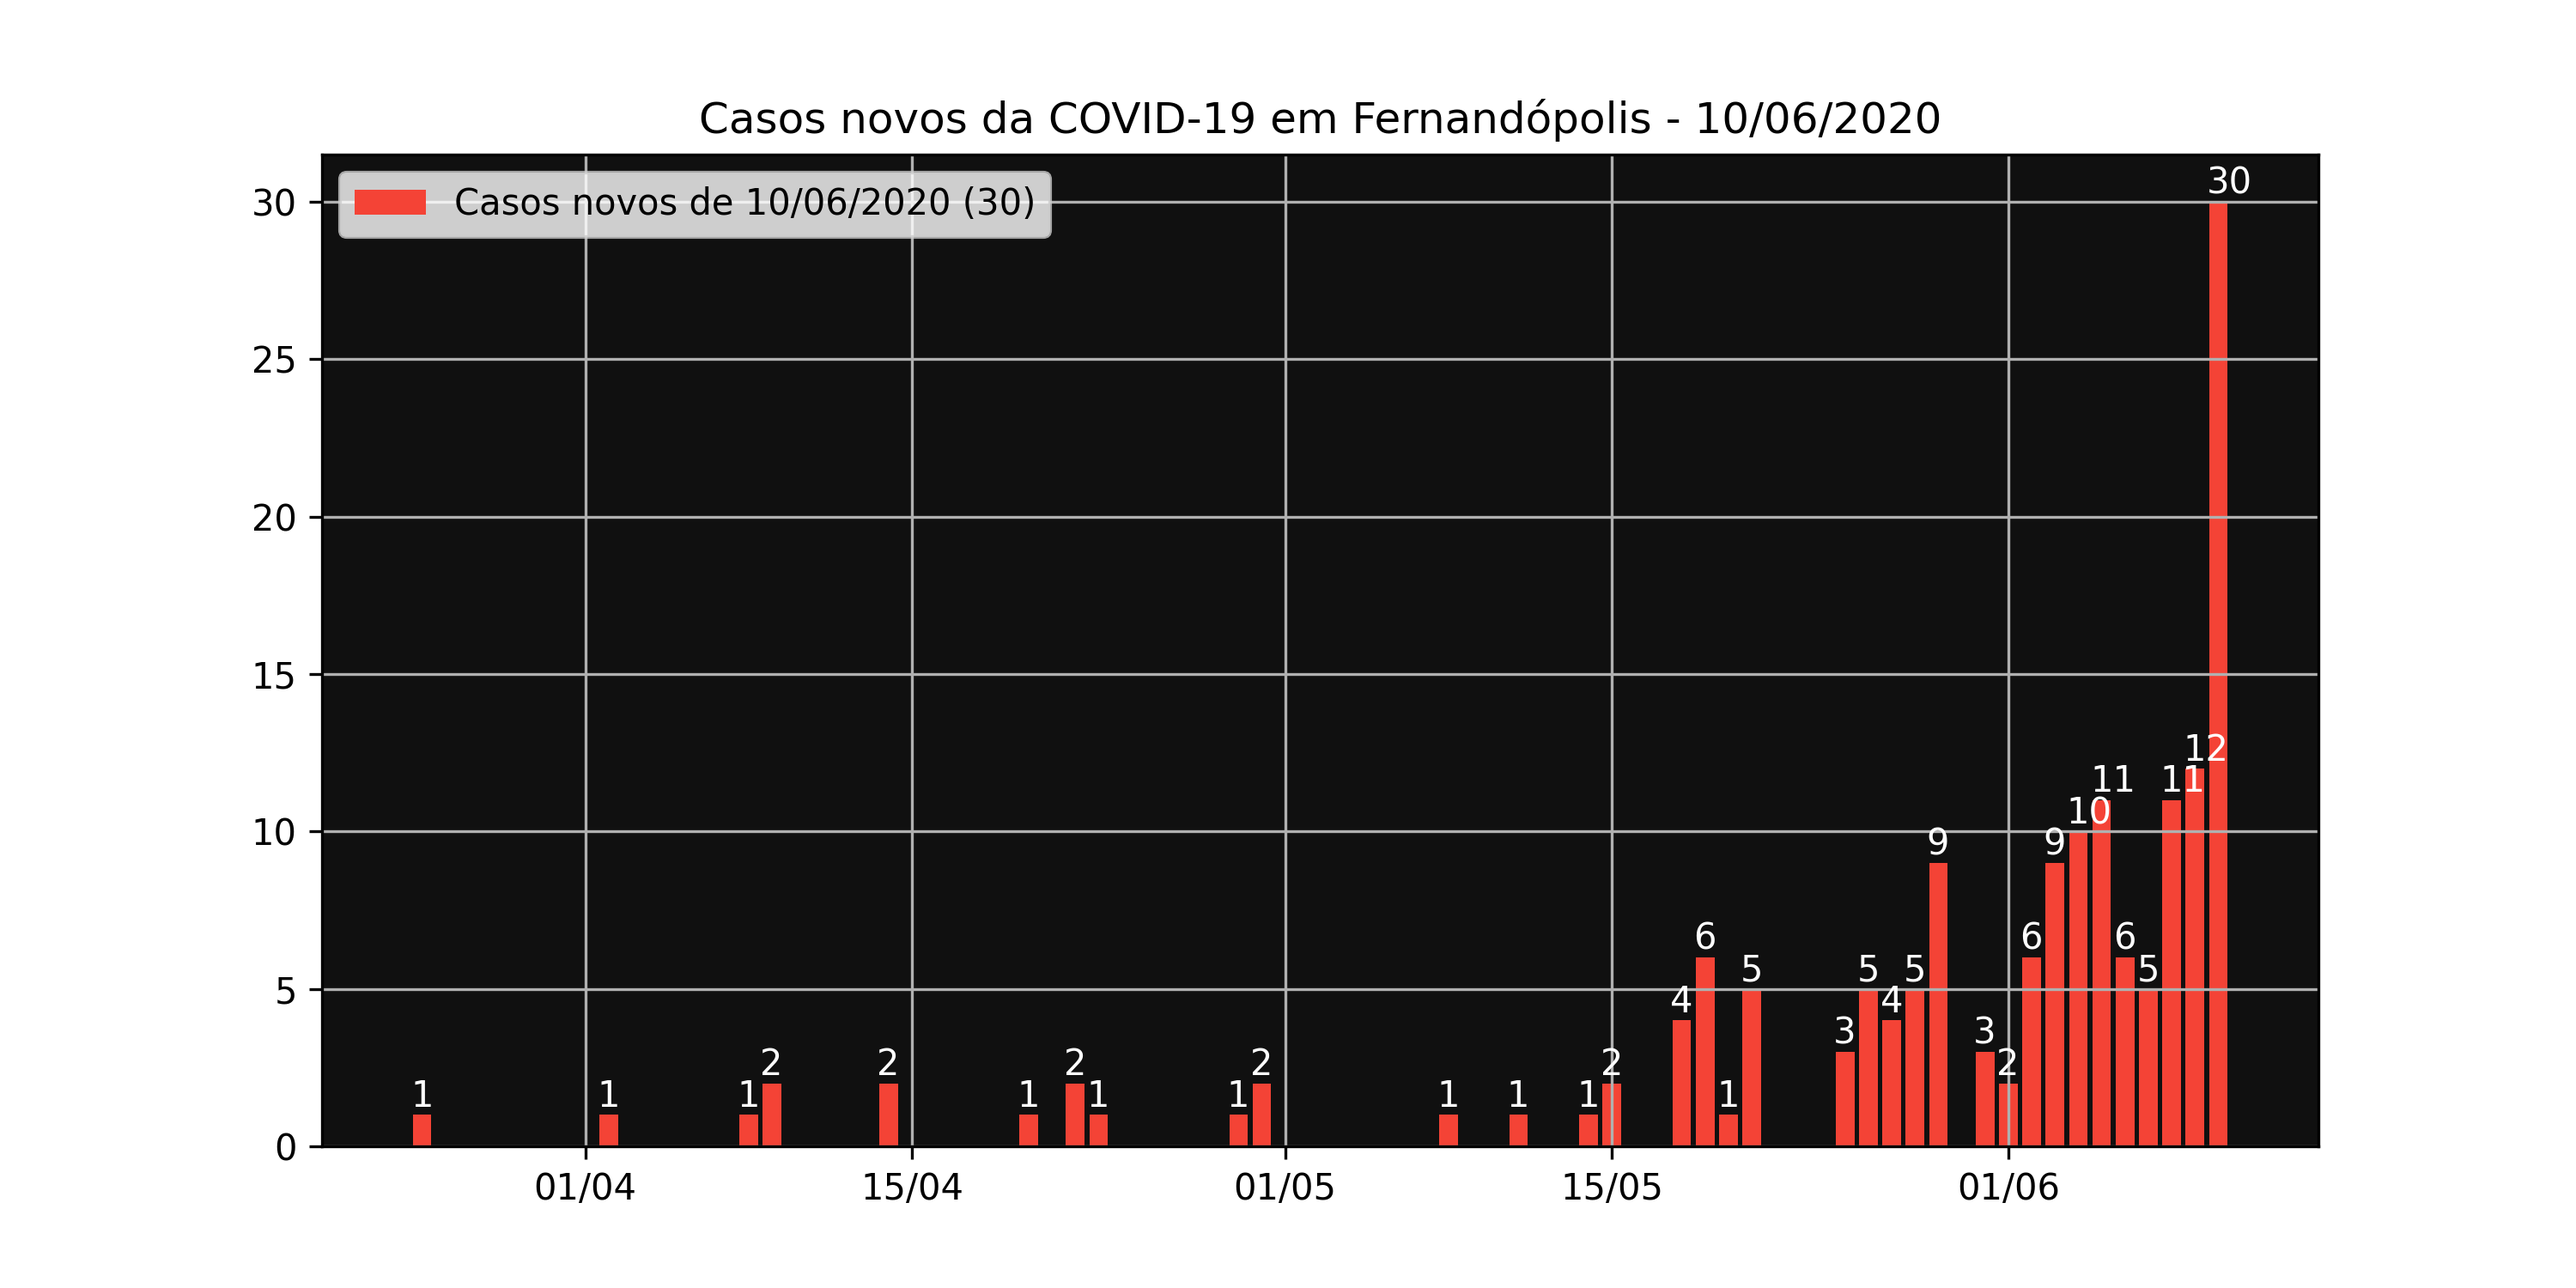
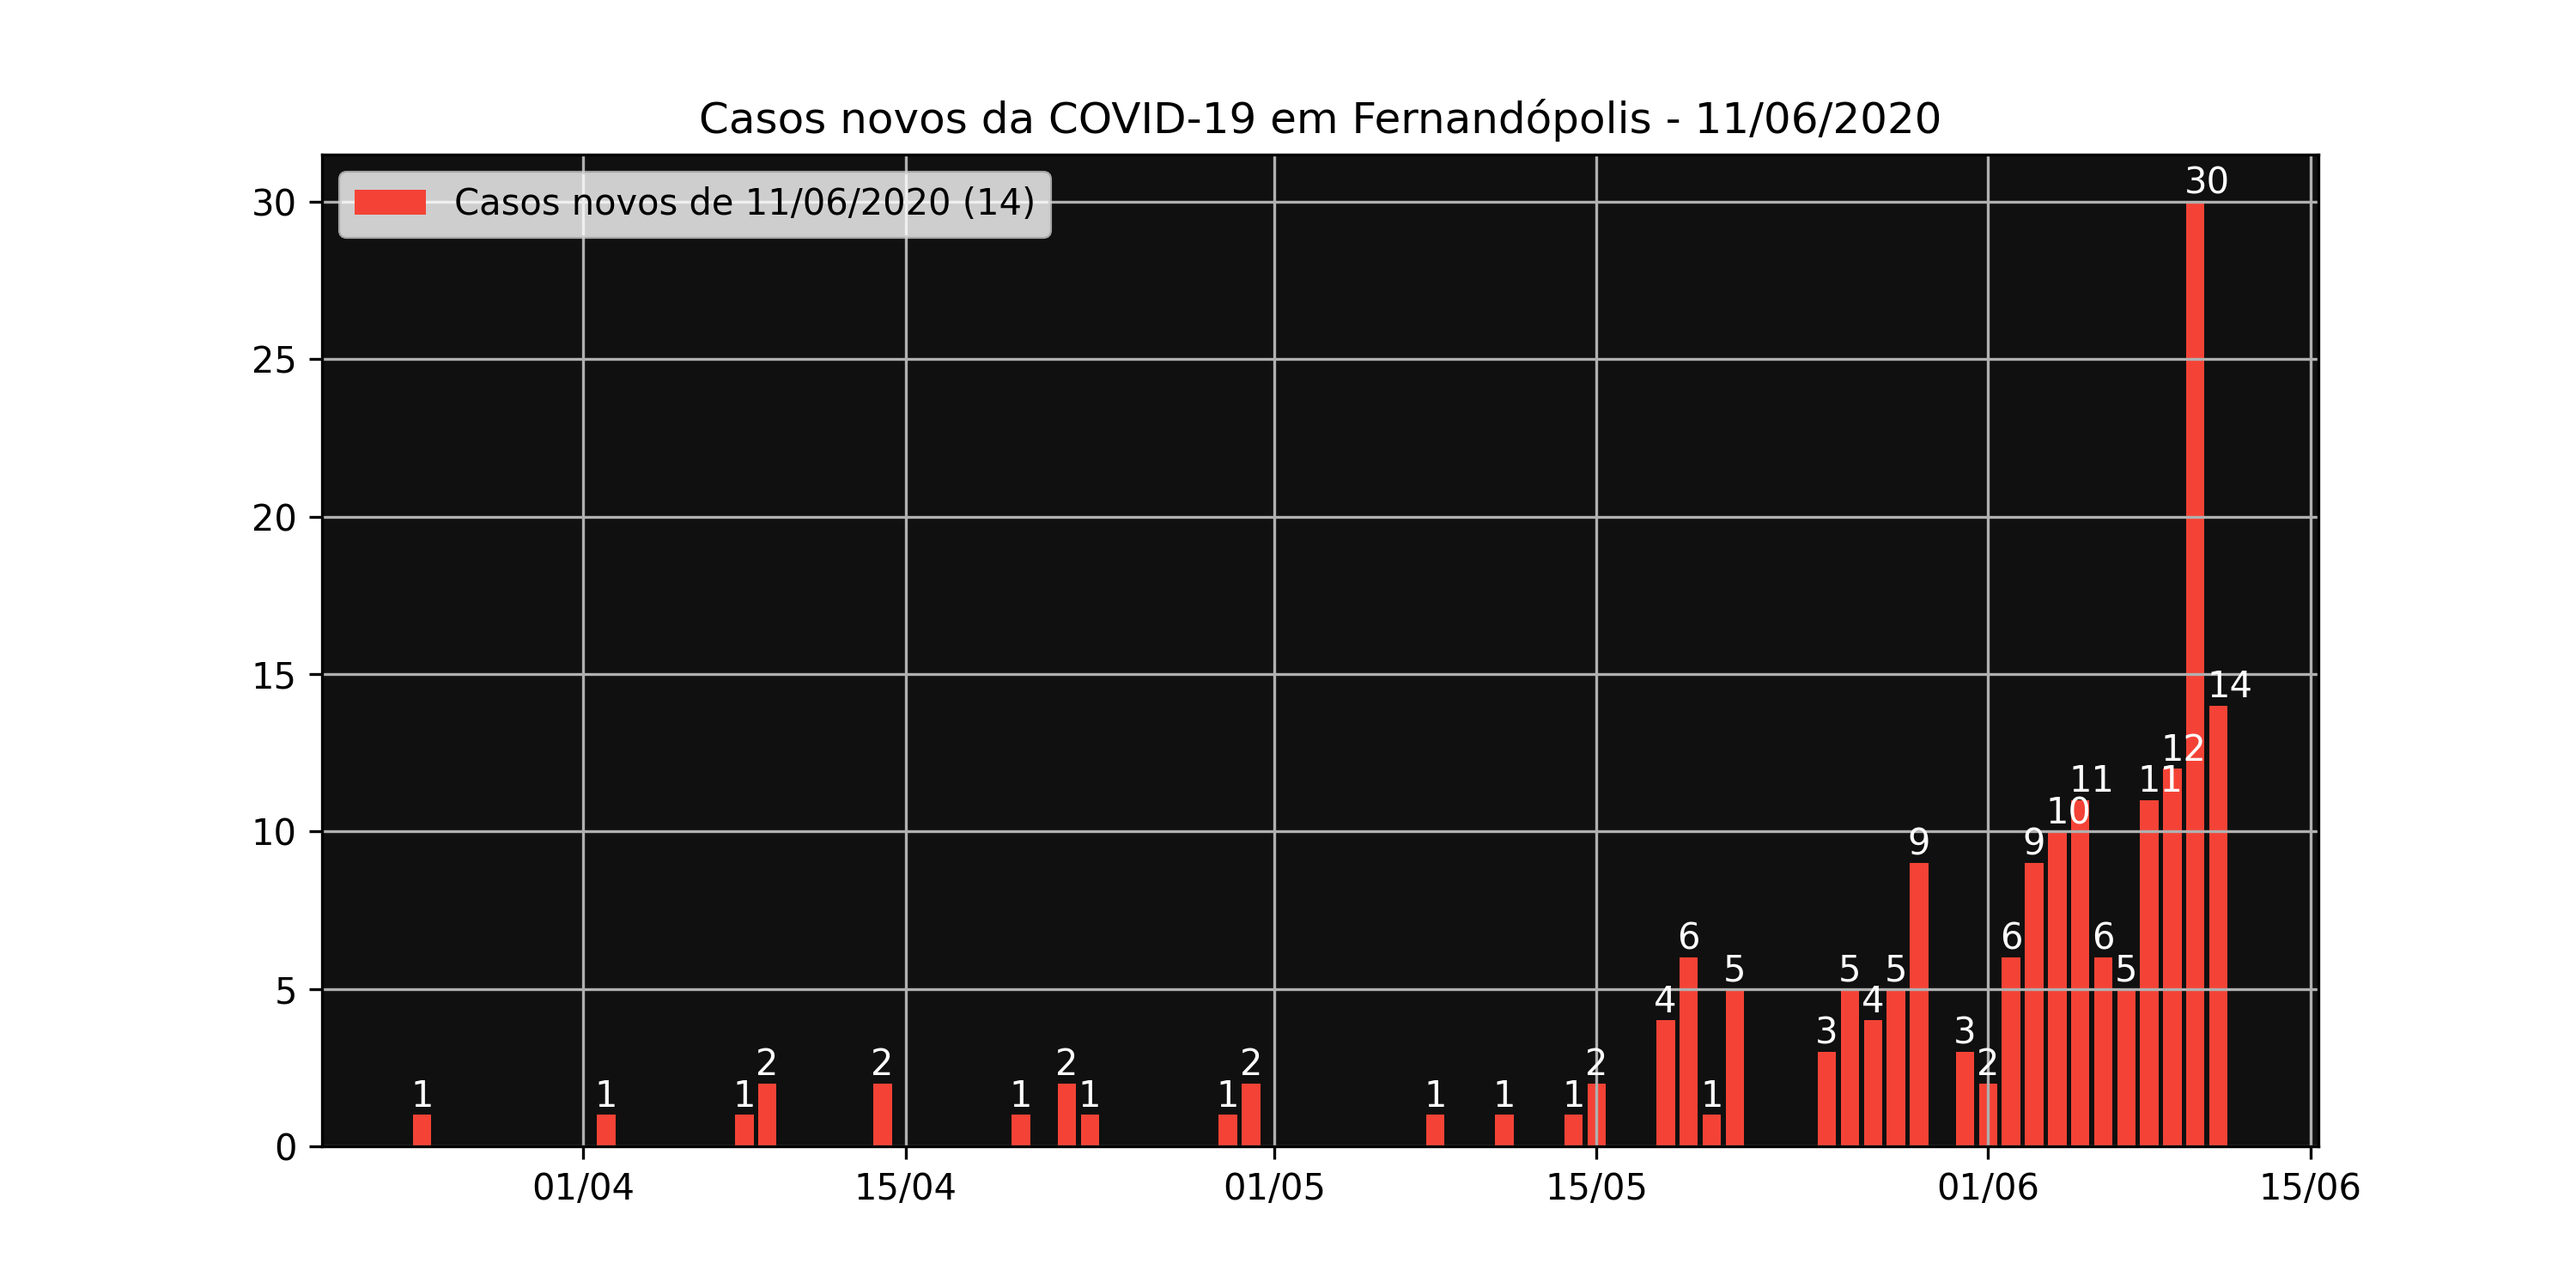
atualização qui 11 jun 2020 20:10:01 -03

diff --git a/chart-generator/main.py b/chart-generator/main.py
@@ -3,6 +3,7 @@ import numpy as np
 import matplotlib.pyplot as plt
 import matplotlib.dates as mdates
 import pandas as pd
+import scipy.optimize as opt
 
 
 def area_chart(ds, dateFmt):
@@ -79,6 +80,49 @@ def bar_chart(ds, dateFmt):
     fig.savefig('../images/bar_chart.png')
 
 
+def line_chart(ds, dateFmt):
+    # create a subplot
+    fig, ax = plt.subplots()
+
+    # set figure size and dpi
+    fig.set_size_inches(10, 5)
+    fig.set_dpi(300)
+
+    # exponential function
+    def func(x, a, b, c):
+        return a * np.exp(b * x) + c
+
+    # optimized parameters for exponential curve fitting
+    optimizedParameters, _pcov = opt.curve_fit(func, ds['Data'].map(lambda x: (
+        x - datetime.fromisoformat('2020-03-25')).days), ds['Casos acumulados'])
+
+    # draw the curves
+    ax.plot(ds['Data'], ds['Casos acumulados'], color='#f44336',
+            label='Casos totais ({})'.format(ds['Novos casos'].values[-1]))
+    ax.plot(ds['Data'], func(ds['Data'].map(lambda x: (
+        x - datetime.fromisoformat('2020-03-25')).days), *optimizedParameters))
+
+    # write the number of cases at the end of the curve
+    ax.text(ds['Data'].values[-1] + np.timedelta64(12, 'h'),
+            ds['Casos acumulados'].values[-1], str(ds['Casos acumulados'].values[-1]), color='w')
+
+    # set chart style
+    ax.xaxis.set_major_formatter(dateFmt)
+    ax.grid(True)
+    ax.set_facecolor('#101010')
+
+    # set chart title
+    ax.title.set_text('Casos da COVID-19 em Fernandópolis - {}'.format(
+        ds['Data'].iloc[-1].strftime('%d/%m/%Y')))
+
+    # draw legend on the upper left corner
+    ax.legend(loc='upper left')
+
+    # save chart as a png
+    # fig.savefig('../images/line_chart.png')
+    plt.show()
+
+
 def main():
     ds = pd.read_csv('../boletim-epidemiologico.csv')
     ds['Data'] = ds['Data'].map(
@@ -86,6 +130,7 @@ def main():
     dateFmt = mdates.DateFormatter('%d/%m')
     area_chart(ds, dateFmt)
     bar_chart(ds, dateFmt)
+    # line_chart(ds, dateFmt)
 
 
 if __name__ == '__main__':
